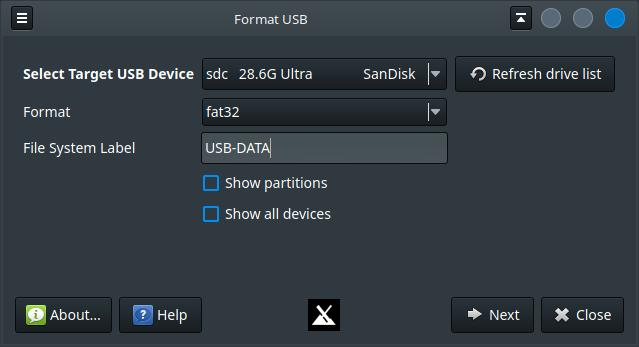
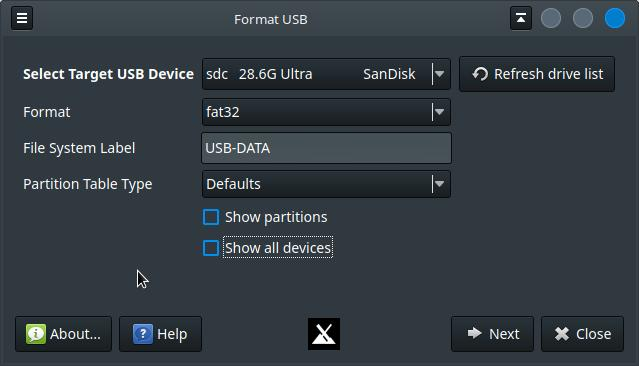
update help, update gui

diff --git a/help/formatusb.html b/help/formatusb.html
@@ -13,6 +13,8 @@
 <p>Format USB allows the user to format removable usb devices.</p>
 <p>Choose the target device, format (fat32/vfat, ntfs, ext4, exfat), and optionally provide a label for the filesystem.</p>
 <p>By default, the whole device will be re-partitioned into one partition and then formatted per the user's choice.</p>
+<p>When repartitioning the device, the user may choose a partition table type (msdos/mbr or gpt) or let formatusb choose based on disk size.</p>
+<p>By default, msdos/mbr will be used on devices under 2TB.</p>
 
 <p>Checking "Show Partitions" fill force formatusb to act on an individual partition instead of the entire device.</p>
 <p>Checking "Show All Devices" fill remove the filter on usb or removable devices, showing all available devices or partitions.</p>

diff --git a/mainwindow.cpp b/mainwindow.cpp
@@ -106,20 +106,35 @@ QString MainWindow::buildOptionList()
     device = ui->combo_Usb->currentText().split(" ").at(0);
     label = ui->lineEditFSlabel->text();
     QString partoption;
+    QString options;
+
     QString format = ui->comboBoxDataFormat->currentText();
     if (format.contains("fat32")){
         format = "vfat";
     }
 
-    QString options;
+
     if (ui->comboBoxPartitionTableType->isEnabled()) {
-          partoption = ui->comboBoxPartitionTableType->currentText();
+        //0=defaults, 1=msdos, 2=gpt
+        switch(ui->comboBoxPartitionTableType->currentIndex()){
+        case 0:
+            partoption = "defaults";
+            break;
+        case 1:
+            partoption = "msdos";
+            break;
+        case 2:
+            partoption = "gpt";
+            break;
+        default: partoption = "defaults";
+        }
     } else {
         partoption = "part";
     }
 
+
     qDebug() << "partition is" << device << "label " << label;
-    options = QString("su-to-root -X -c '/usr/lib/formatusb/formatusb_lib \"" + device + "\" " + format + " \"" + label + "\"" + partoption + "'");
+    options = QString("su-to-root -X -c '/usr/lib/formatusb/formatusb_lib \"" + device + "\" " + format + " \"" + label + "\" " + partoption + "'");
     qDebug() << "Options: " << options;
     return options;
 }
